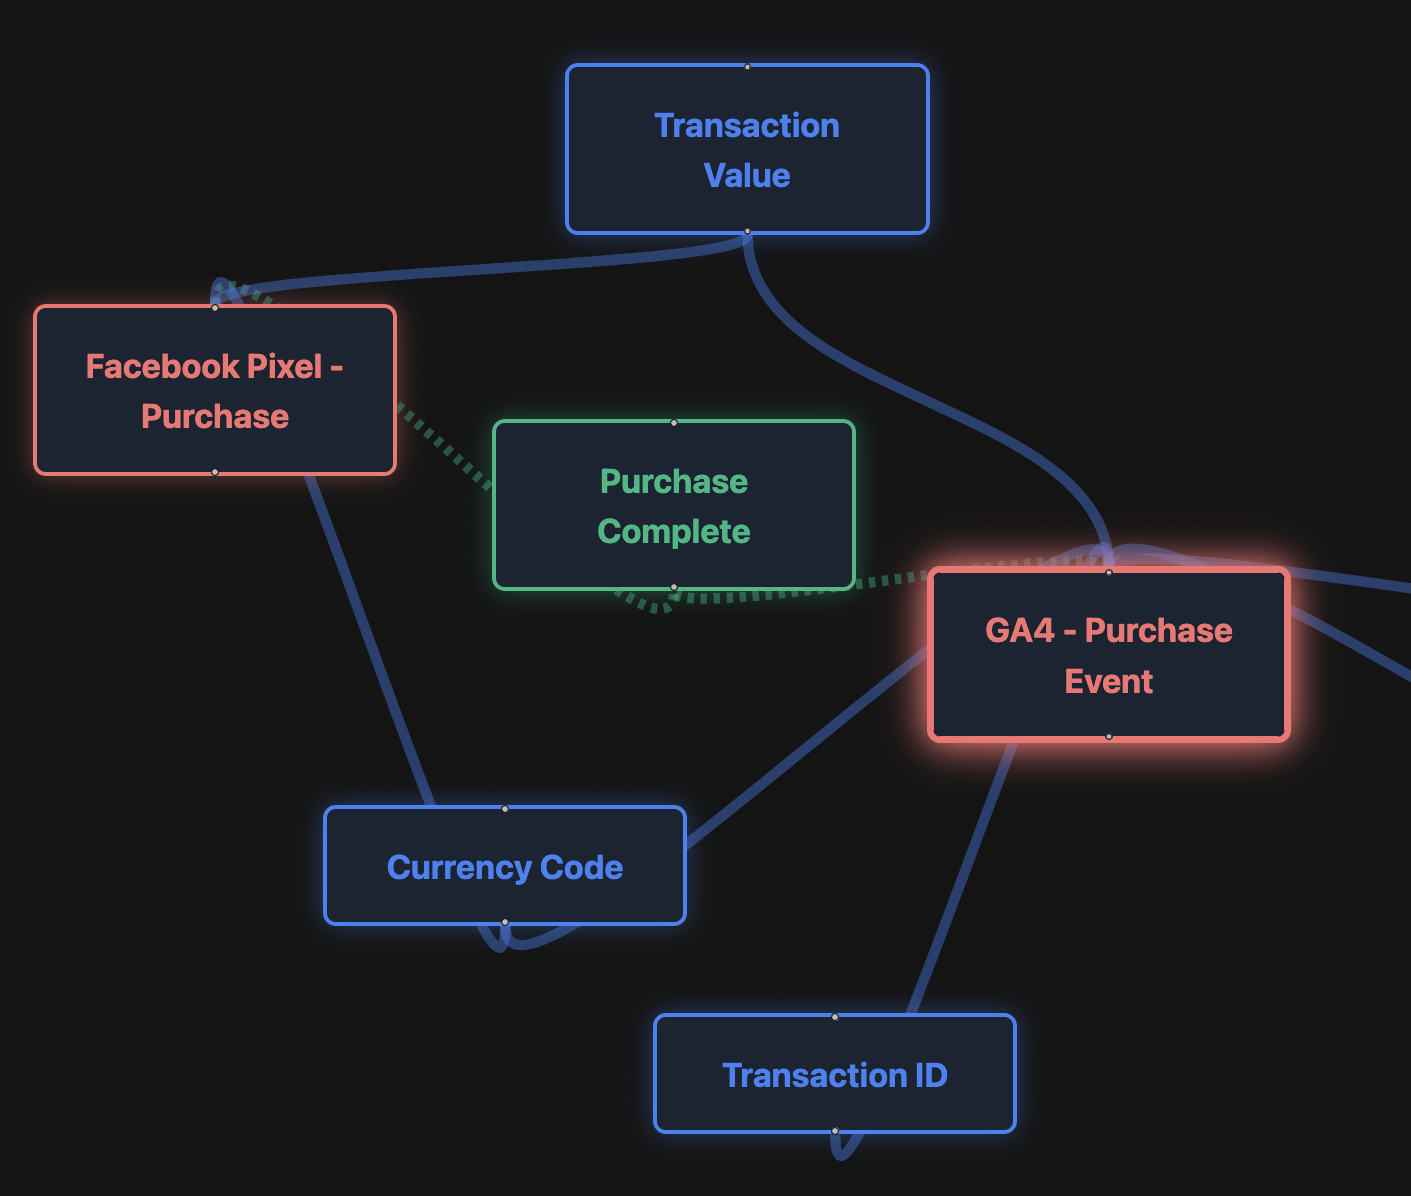
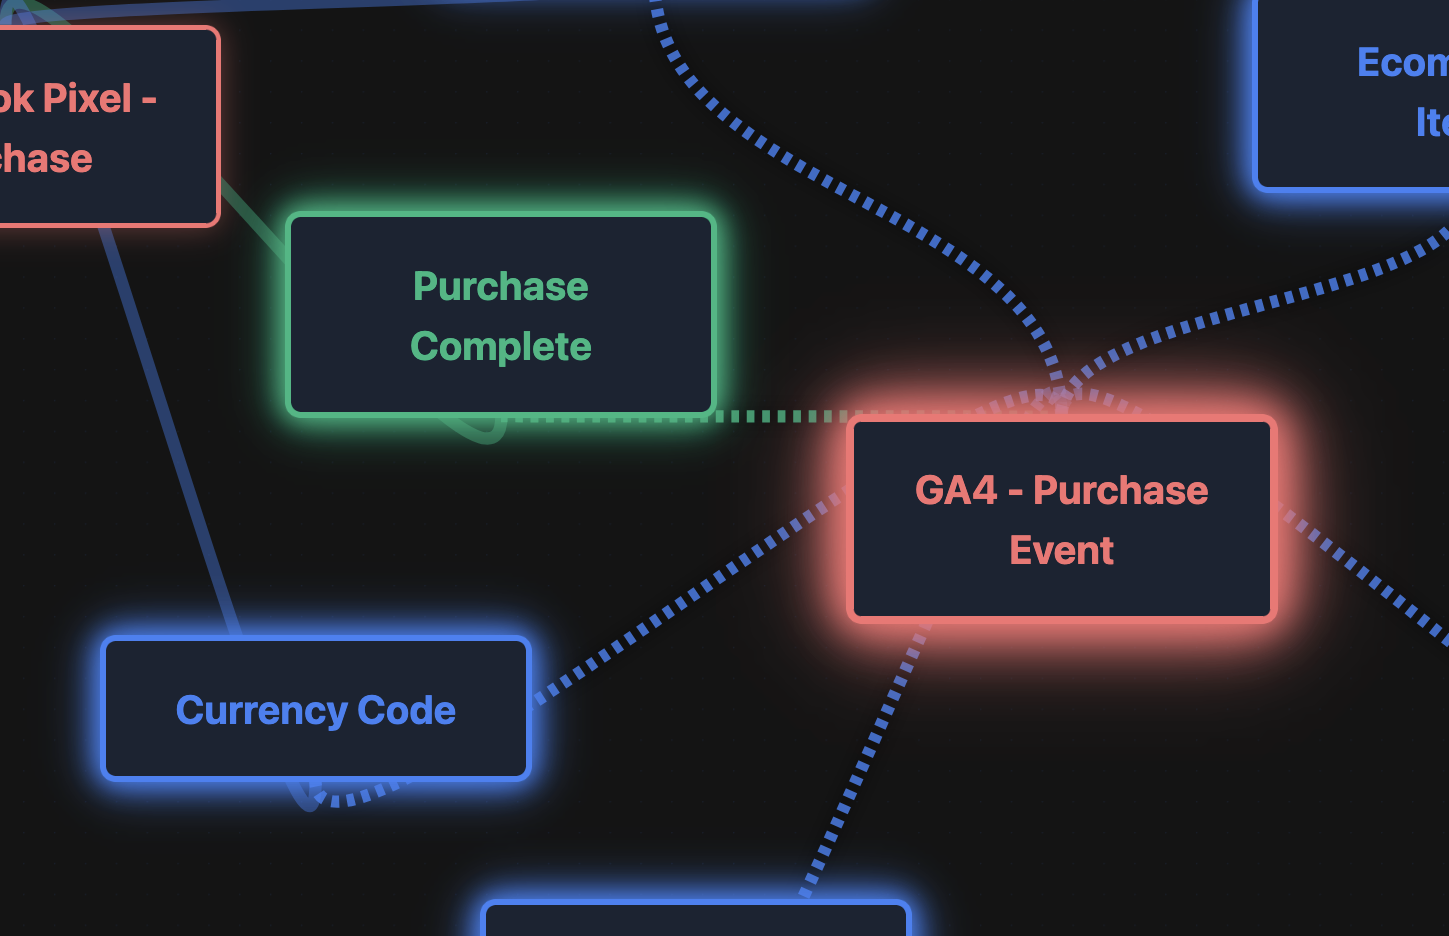
Hide node connection handles (dots)
- Removed visible white dots at edge connection points
- Handles hidden via CSS for cleaner visual appearance
- Edges still connect properly, just without visible anchor points
- Updated OG image

diff --git a/src/components/GraphCanvas.css b/src/components/GraphCanvas.css
@@ -17,6 +17,12 @@
   filter: drop-shadow(0 0 10px currentColor);
 }
 
+/* Hide node handles (connection dots) */
+.react-flow__handle {
+  opacity: 0;
+  pointer-events: none;
+}
+
 /* Edge styling */
 .react-flow__edge-path {
   stroke-width: 8;
